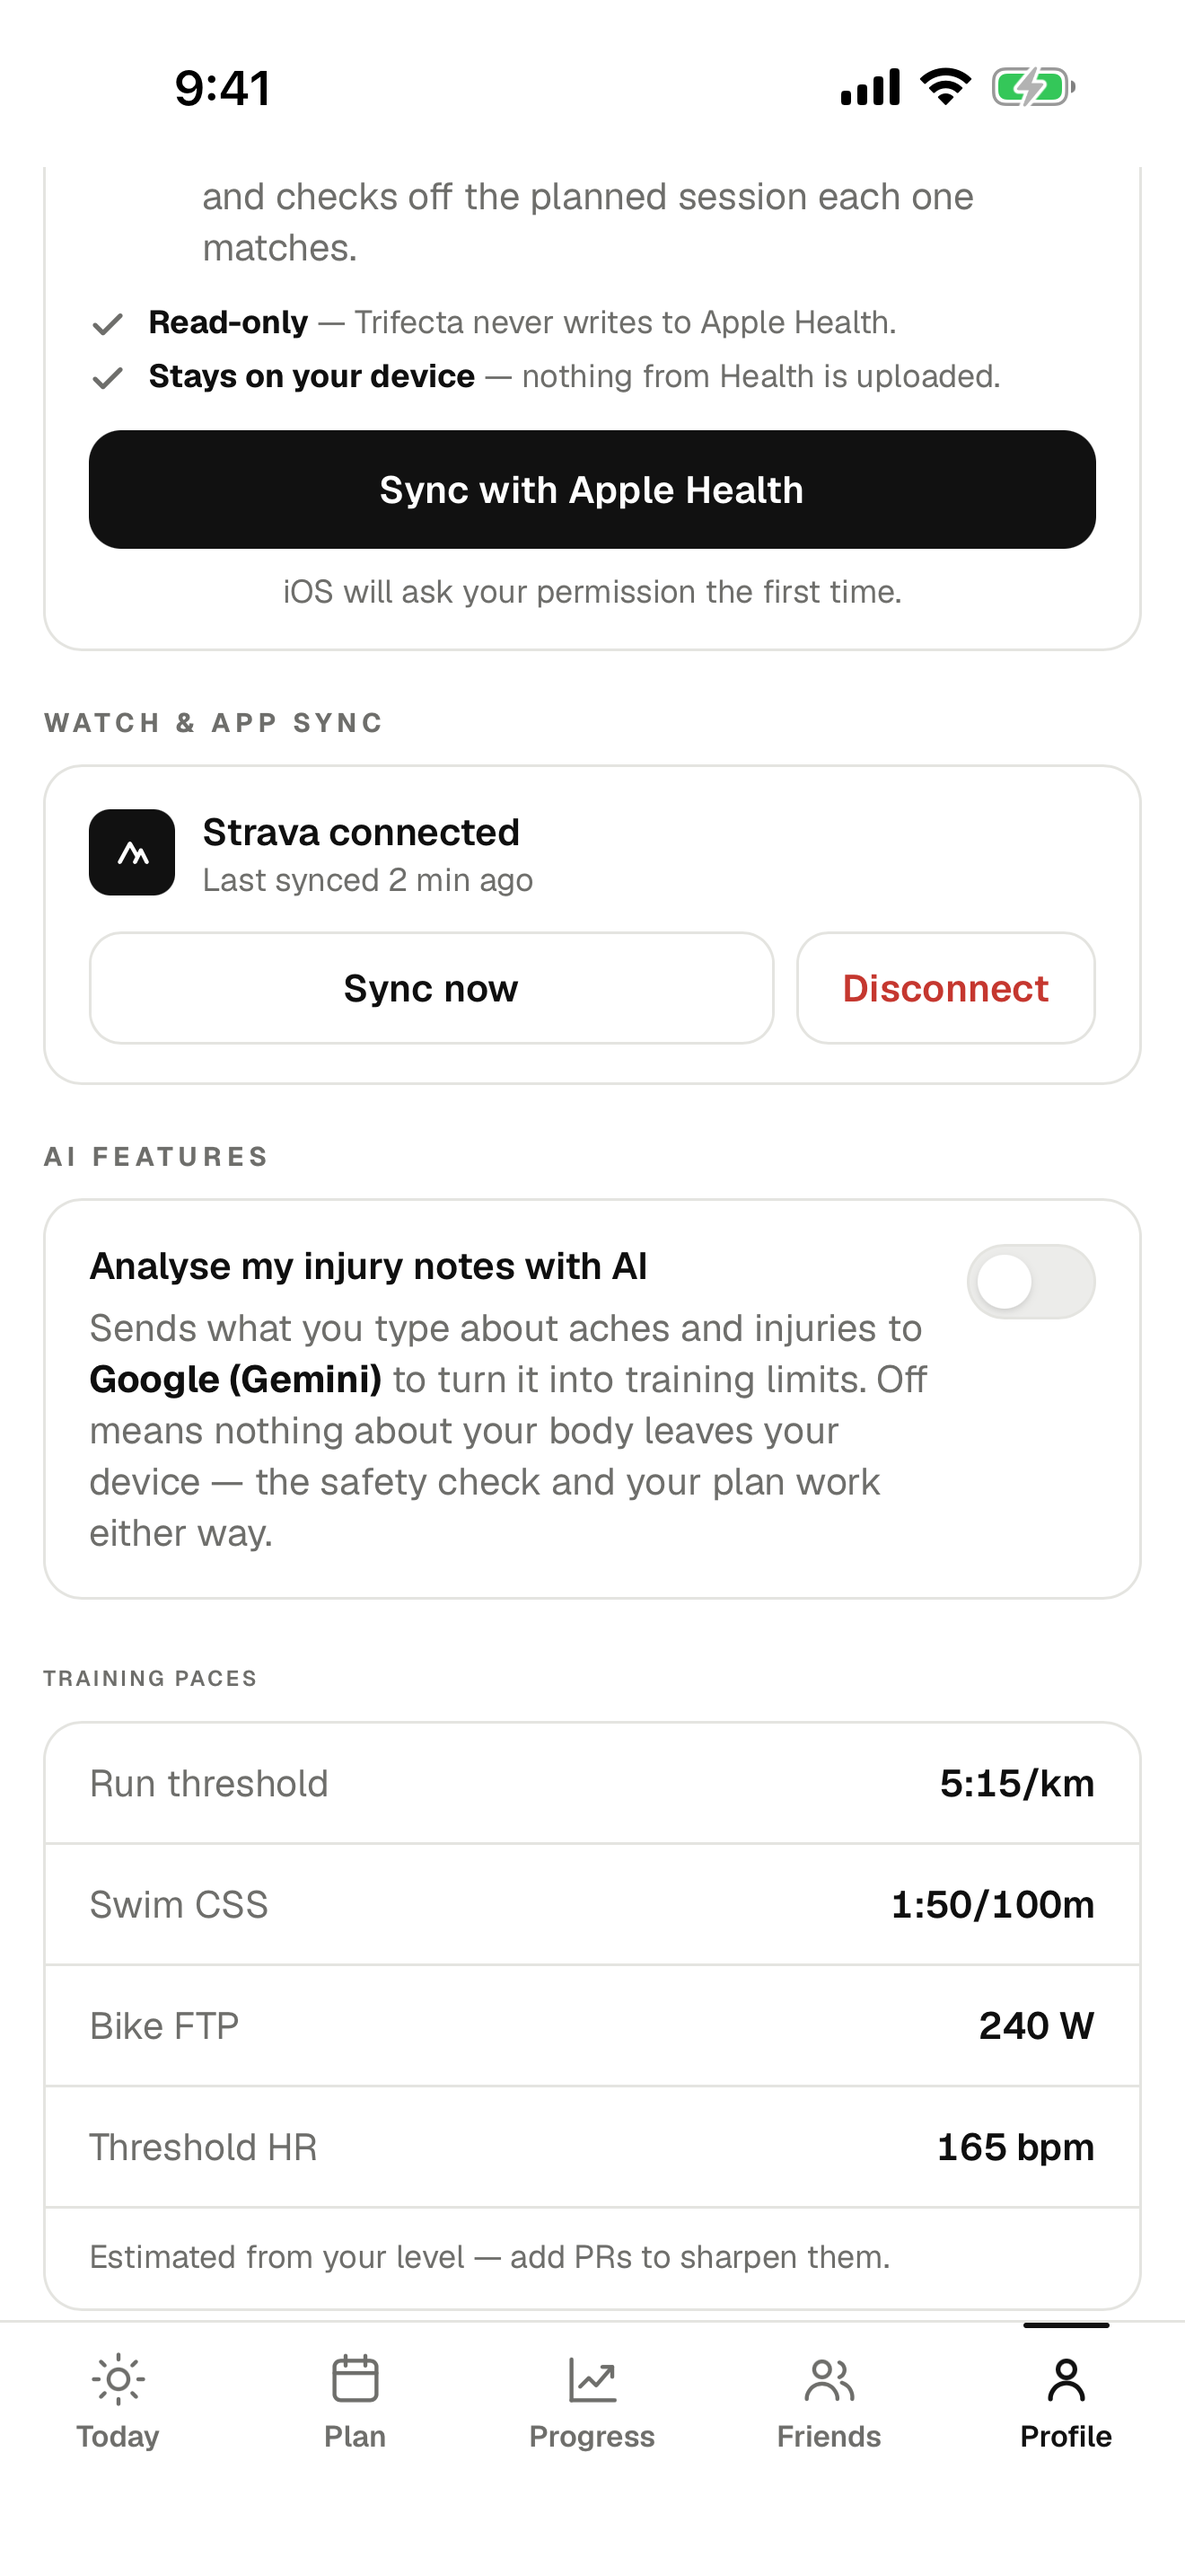
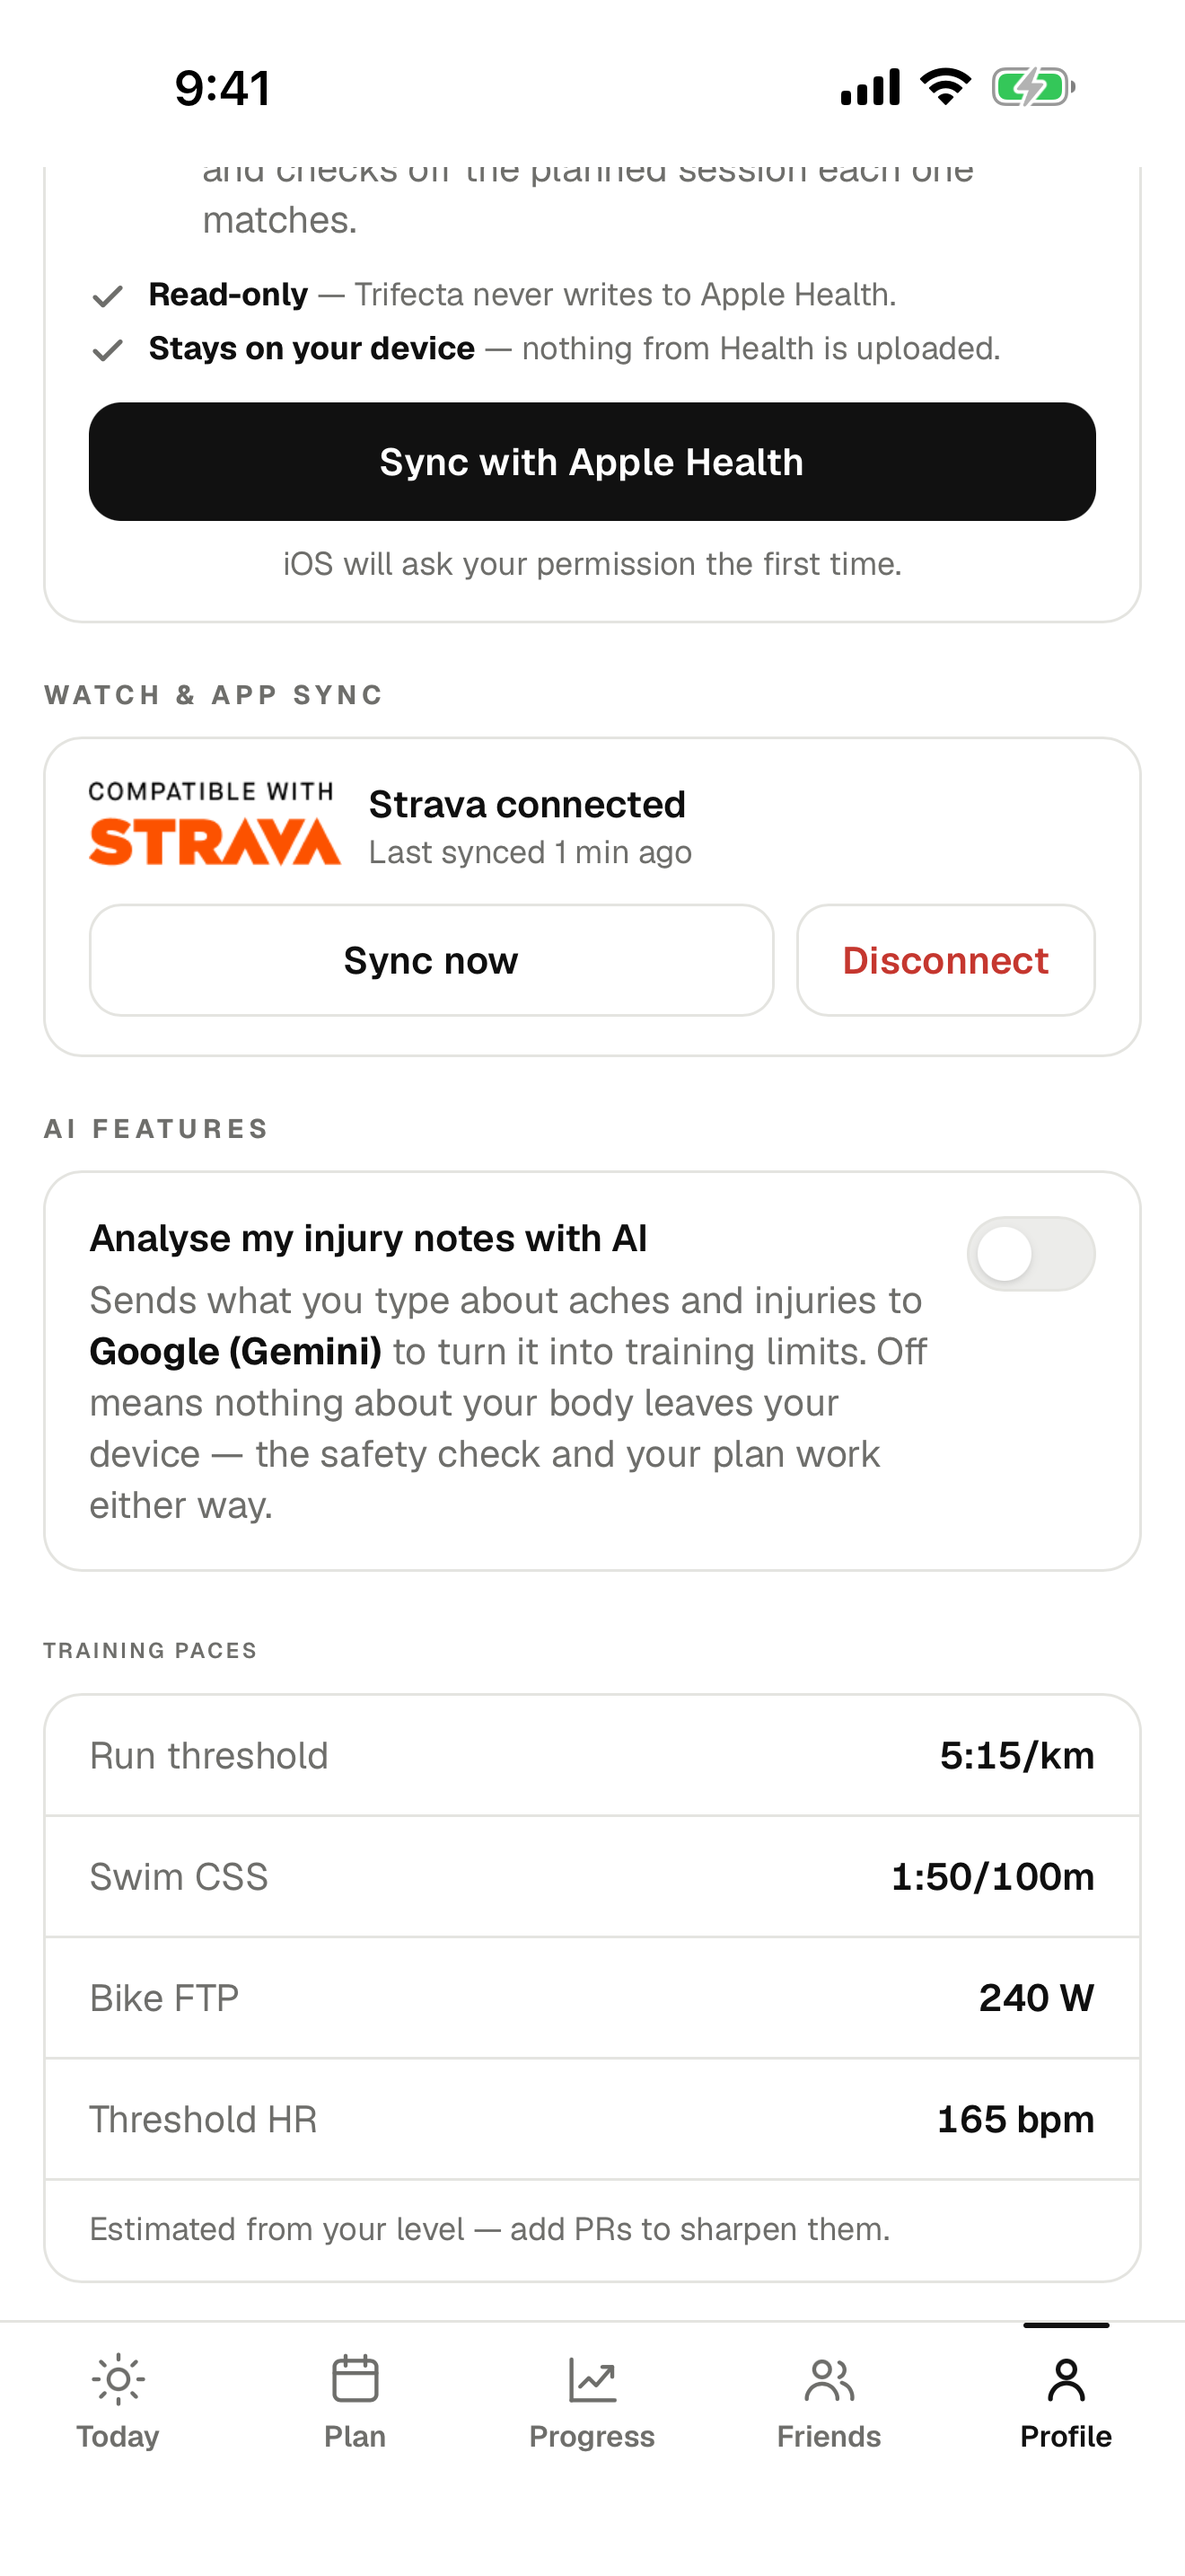
brand(strava): swap placeholder Connect button + summit chevron for Strava's official assets
Ticking the Brand Guidelines Review checkbox on the Developer Program
form while shipping a hand-rolled substitute mark is a straight
contradiction — first-time apps get denied for this specifically.
Cheap denial reason to hand them.

- Drop the "monochrome summit chevron" placeholder for the official
  "Compatible with Strava" stacked mark (public/brand/strava/).
- Drop the re-styled orange button for Strava's official
  "Connect with Strava" button asset. Rule: the anchor must link to
  /oauth/authorize — /api/strava/connect redirects there, so no
  contract change.
- Assets sourced from developers.strava.com/guidelines/ (the
  brand-kit ZIPs) and shipped in /public/brand/strava/.
- Removed the STRAVA_ORANGE constant (no longer used — the images
  ARE the branding).
- Regenerated docs/strava-review/ shots so what's in the review pack
  matches what runs in the app.
- seed-athletes.ts: swap the sequential athlete1..N default for a
  small pool of realistic first-name-based handles so future seeds
  don't stick out as a burst-created test cohort.

diff --git a/components/app/Connections.tsx b/components/app/Connections.tsx
@@ -7,9 +7,6 @@ import { healthAvailable, requestHealthAuth, syncAppleHealth } from "@/lib/healt
 import { IS_NATIVE } from "@/lib/runtime";
 import { useToast } from "./Toast";
 
-// Monochrome to fit the Paper (black & white) theme. Swap back to "#FC4C02" for Strava brand orange.
-const STRAVA_ORANGE = "#111111";
-
 function timeAgo(iso?: string | null): string {
   if (!iso) return "just now";
   const mins = Math.round((Date.now() - new Date(iso).getTime()) / 60000);
@@ -337,12 +334,16 @@ function StravaCard() {
                 Strava (Garmin, COROS, Wahoo, Apple Watch).
               </p>
             </div>
-            <a
-              href="/api/strava/connect"
-              className="btn mt-3 w-full py-3 text-sm font-semibold"
-              style={{ background: STRAVA_ORANGE, color: "#fff" }}
-            >
-              Connect with Strava
+            {/* Strava's brand guidelines require the official "Connect with Strava" asset,
+                not a re-styled button. Ships from public/brand/strava/ (downloaded from
+                developers.strava.com/guidelines). Rule: link must go to /oauth/authorize
+                (or /oauth/mobile/authorize) — our /api/strava/connect just redirects there. */}
+            <a href="/api/strava/connect" className="mt-3 block" aria-label="Connect with Strava">
+              <img
+                src="/brand/strava/btn_strava_connect_with_orange_x2.png"
+                alt="Connect with Strava"
+                className="mx-auto h-12 w-auto"
+              />
             </a>
           </div>
         )}
@@ -370,16 +371,15 @@ function HealthMark() {
 }
 
 function StravaMark() {
-  // a generic orange summit chevron — evokes Strava's colour without copying its mark
+  // Strava's official "Compatible with Strava" mark (stacked orange), from their
+  // brand-guidelines kit at public/brand/strava/. Rules: don't modify the mark,
+  // don't display it more prominently than your own branding, and use the
+  // "Compatible with Strava" / "Powered by Strava" phrasing when it appears.
   return (
-    <span
-      aria-hidden
-      className="flex h-8 w-8 flex-shrink-0 items-center justify-center rounded-lg"
-      style={{ background: STRAVA_ORANGE }}
-    >
-      <svg width="15" height="15" viewBox="0 0 24 24" fill="none" stroke="#fff" strokeWidth="2.4" strokeLinejoin="round" strokeLinecap="round">
-        <path d="M4 18 L10 7 L14 14 M13 18 L16.5 11 L20 18" />
-      </svg>
-    </span>
+    <img
+      src="/brand/strava/api_logo_cptblWith_strava_stack_orange.png"
+      alt="Compatible with Strava"
+      className="h-8 w-auto flex-shrink-0"
+    />
   );
 }

diff --git a/scripts/seed-athletes.ts b/scripts/seed-athletes.ts
@@ -118,8 +118,12 @@ async function seed(username: string, idx: number): Promise<{ username: string; 
 }
 
 async function main() {
-  // simple sequential usernames: athlete1..athleteN — same password across all.
-  const names = Array.from({ length: COUNT }, (_, i) => `athlete${i + 1}`);
+  // realistic-looking usernames so the seed doesn't visibly stick out as a
+  // burst-created test cohort on Strava's review side. Sequential athlete1..N
+  // was our earlier default and got flagged; humans have first-name-based
+  // handles, so use those (rotate through a small pool).
+  const POOL = ["sarah_krug", "mconley", "amanda.tri", "jhernandez", "kwilliams", "dphillips", "aemery", "tbartlett"];
+  const names = Array.from({ length: COUNT }, (_, i) => POOL[i % POOL.length]);
   const results: { username: string; password: string; ok: boolean; note?: string }[] = [];
   for (let i = 0; i < names.length; i++) {
     const r = await seed(names[i], i);
